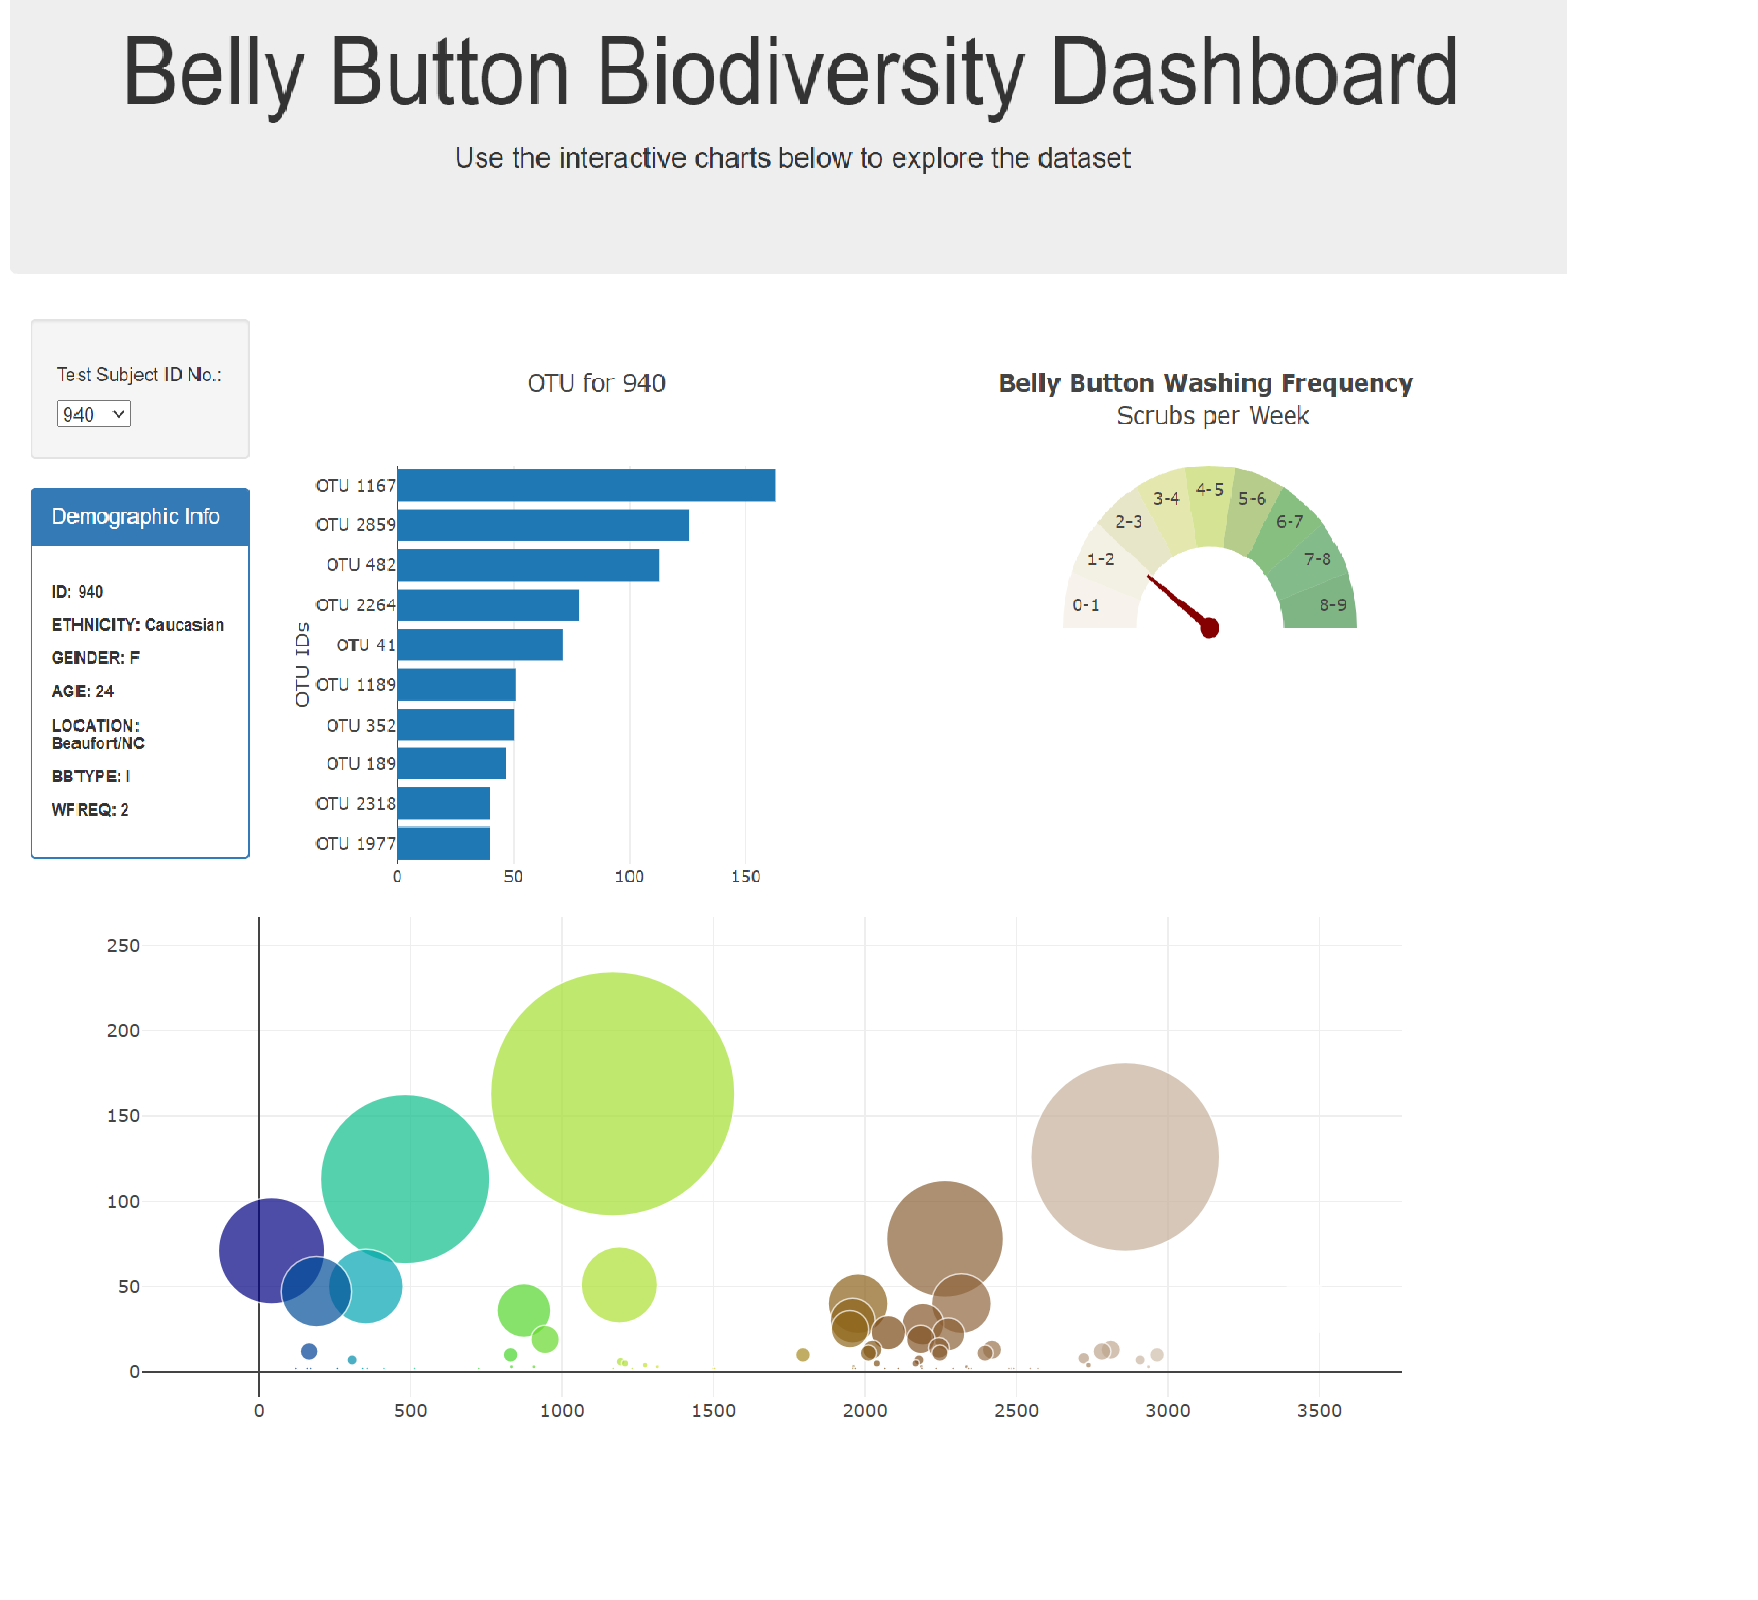
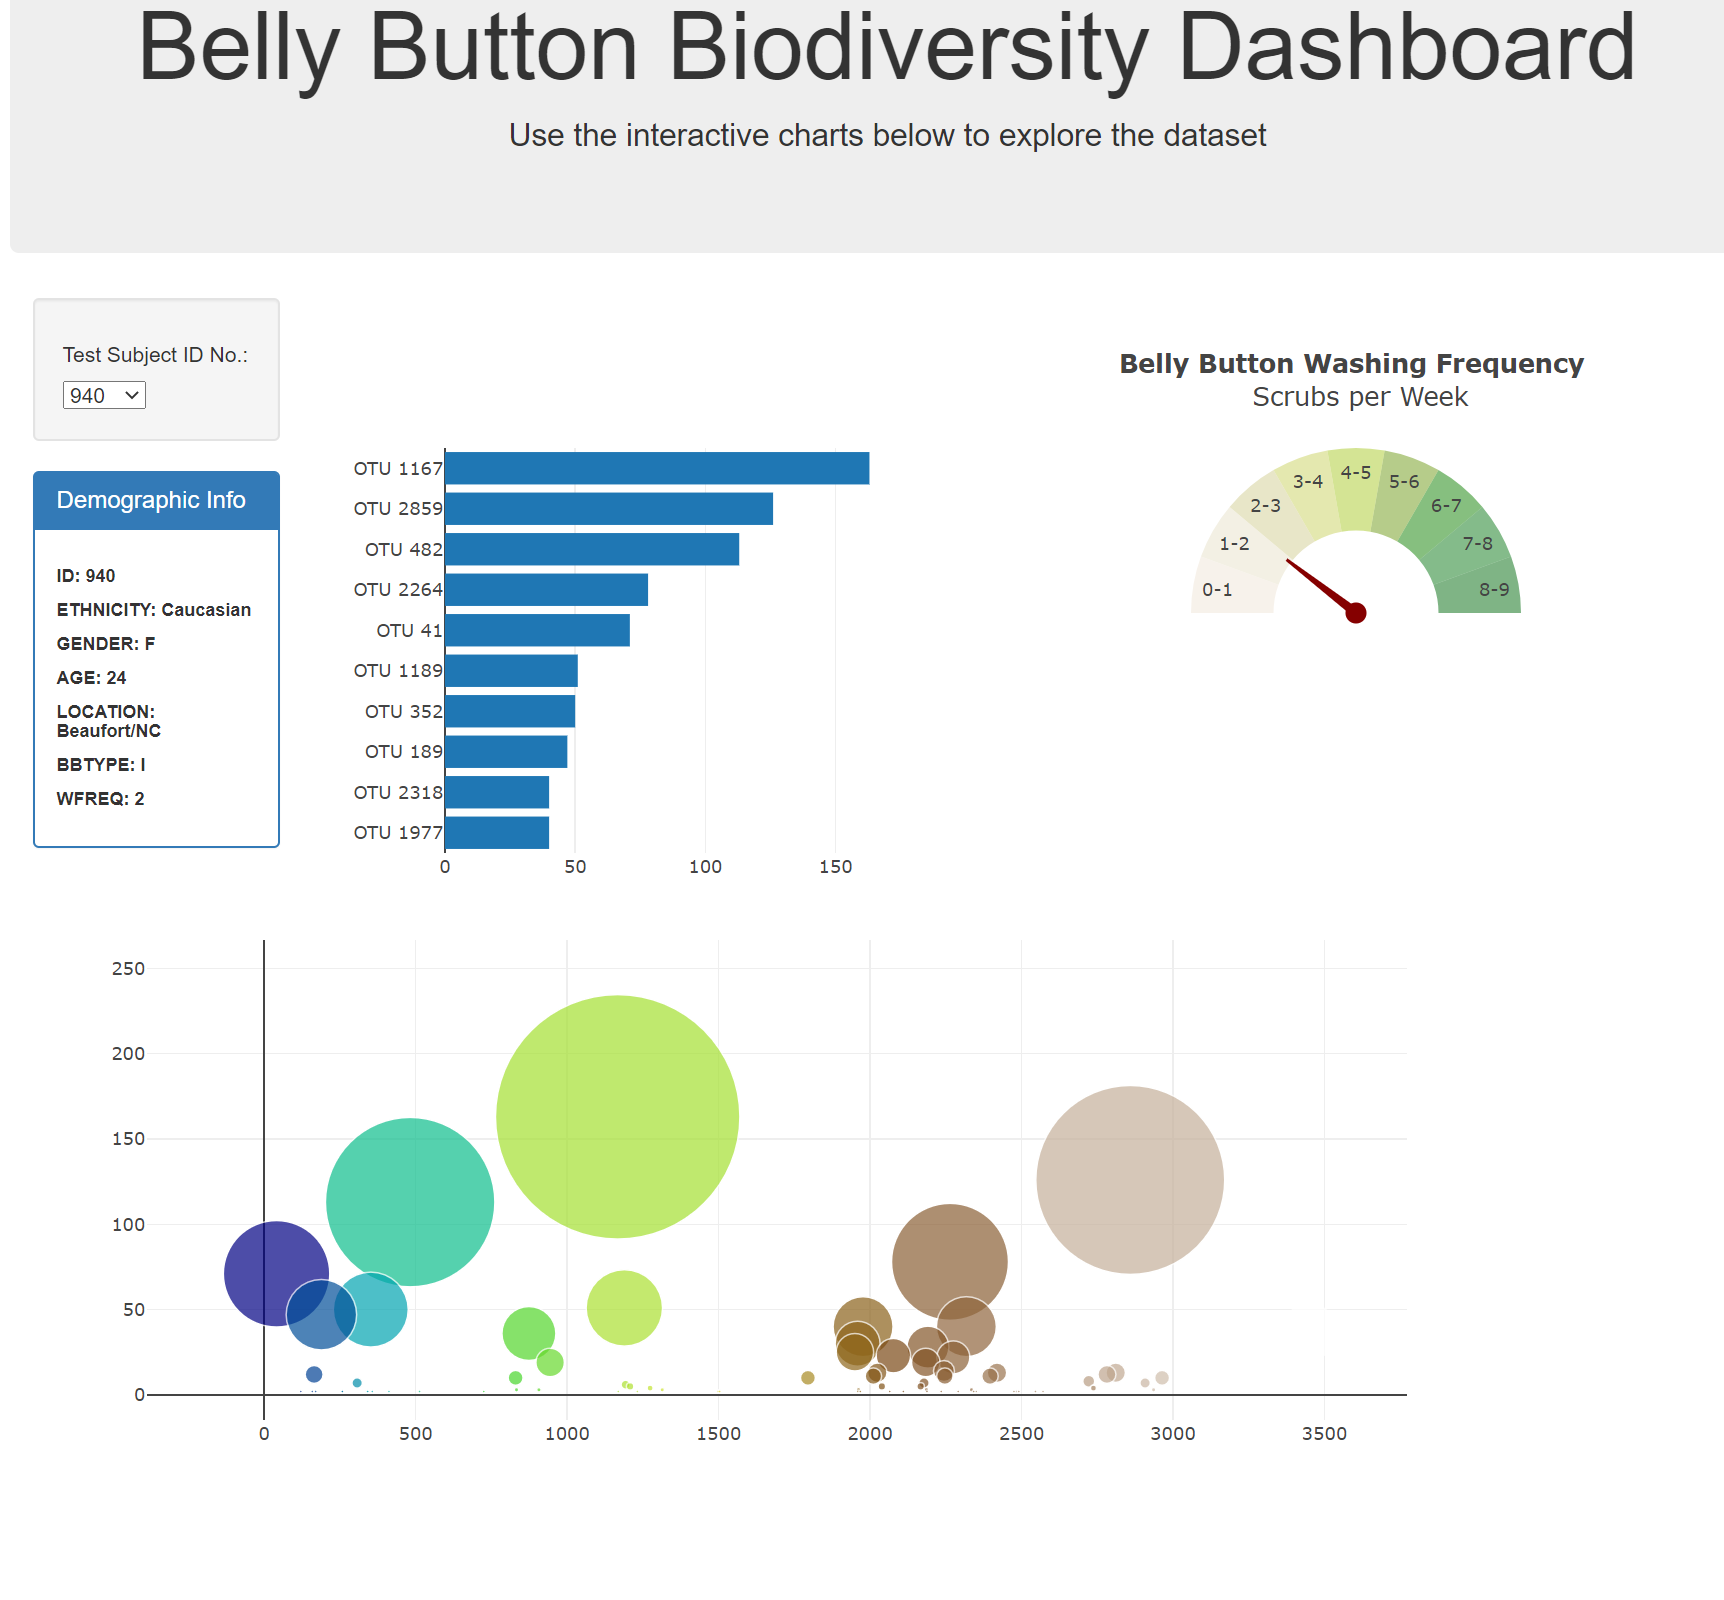
changed charts layout

diff --git a/plots.js b/plots.js
@@ -102,12 +102,13 @@ function buildBarChart(firstTenSamples, firstTenOtuLable, sample) {
   };
 
   var data = [trace];
-  var layout = {
-    title: "OTU for " + sample,
-    xaxis: { title: "Sample Values"},
-    yaxis: { title: "OTU IDs"}
-  };
-  Plotly.newPlot("bar", data, layout);
+  // var layout = {
+  //   title: "OTU for " + sample,
+  //   xaxis: { title: "Sample Values"},
+  //   yaxis: { title: "OTU IDs"}
+  // };
+  // Plotly.newPlot("bar", data, layout);
+  Plotly.newPlot("bar", data);
 }
 
 /*
@@ -136,6 +137,9 @@ function buildBubbleChart(otu_ids, sampleValues, otuLabels) {
   Plotly.newPlot('bubble', data, layout);
 }
 
+/*
+  This function create a gauge chart and moves needle according to wash frequncy
+*/
 function buildGaugeChart(wfreq) {
   // Enter a speed between 0 and 180
   var level = parseFloat(wfreq) * 20;
